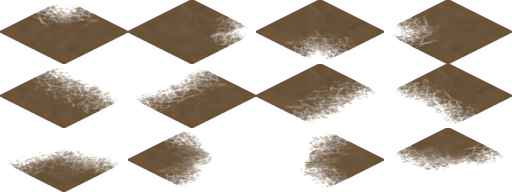
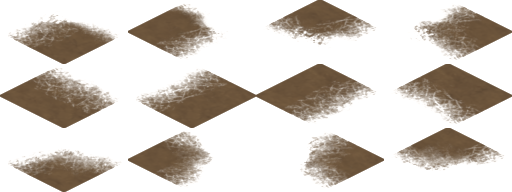
auto tile for sand dirt and gras works

Changed region(s): [[0.3125, 0.0, 0.9375, 0.3438], [0.0, 0.0312, 0.25, 0.25]]

diff --git a/tools/generate-rubberduck-tileset-yaml.py b/tools/generate-rubberduck-tileset-yaml.py
@@ -492,12 +492,14 @@ def generate_autotile_yaml(output: Path) -> None:
         return "\n".join(lines)
 
     world_block = f"""\tAutoTile:
+\t\tEnabled: true
 \t\tDebug: {str(DEBUG_AUTOTILE).lower()}
 \t\tUseHigherPriority: false
 \t\tInvertMask: false
 \t\tIncludeDiagonals: true
 \t\tAllowEnclosedTransitions: true
 \t\tIgnoreNonBaseTemplates: false
+\t\tIgnoreTransitionNeighbors: true
 \t\tGroups:
 \t\t\tDirt:
 \t\t\t\tPriority: 1
@@ -540,6 +542,7 @@ def generate_autotile_yaml(output: Path) -> None:
 \t\t\tDirtDark:
 \t\t\t\tGroup: Dirt
 \t\t\t\tBaseTemplate: 1040
+\tTerrainTransitionOverlay:
 """
 
     autotile = f"""World:
@@ -900,7 +903,16 @@ def generate_atomic_overlay_images(root: Path) -> None:
             output = Image.new("RGBA", (frame_w * 4, frame_h * 3), (0, 0, 0, 0))
 
             for i, pattern in enumerate(ATOMIC_PATTERN_ORDER):
-                source_index = SHEET_FRAMES[pattern][0]
+                if pattern == "N":
+                    source_index = SHEET_FRAMES["WNE"][1]
+                elif pattern == "E":
+                    source_index = SHEET_FRAMES["NES"][1]
+                elif pattern == "S":
+                    source_index = SHEET_FRAMES["ESW"][1]
+                elif pattern == "W":
+                    source_index = SHEET_FRAMES["SWN"][1]
+                else:
+                    source_index = SHEET_FRAMES[pattern][0]
                 tile = source_image.crop(frame_rect(source_index, block_index))
                 x = (i % 4) * frame_w
                 y = (i // 4) * frame_h
